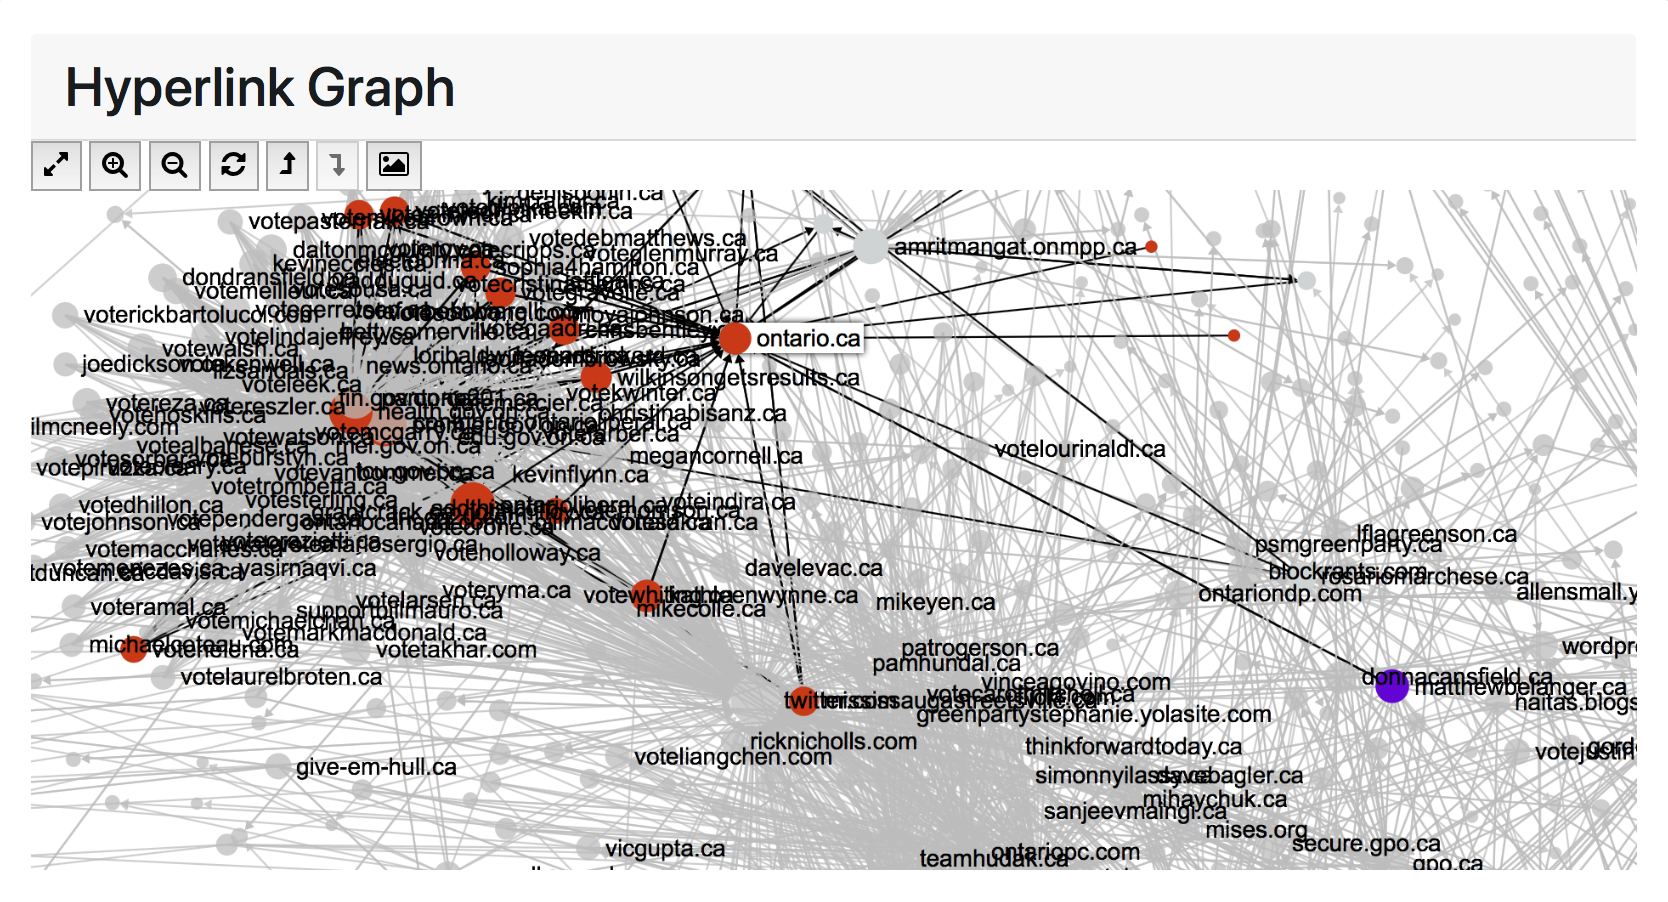
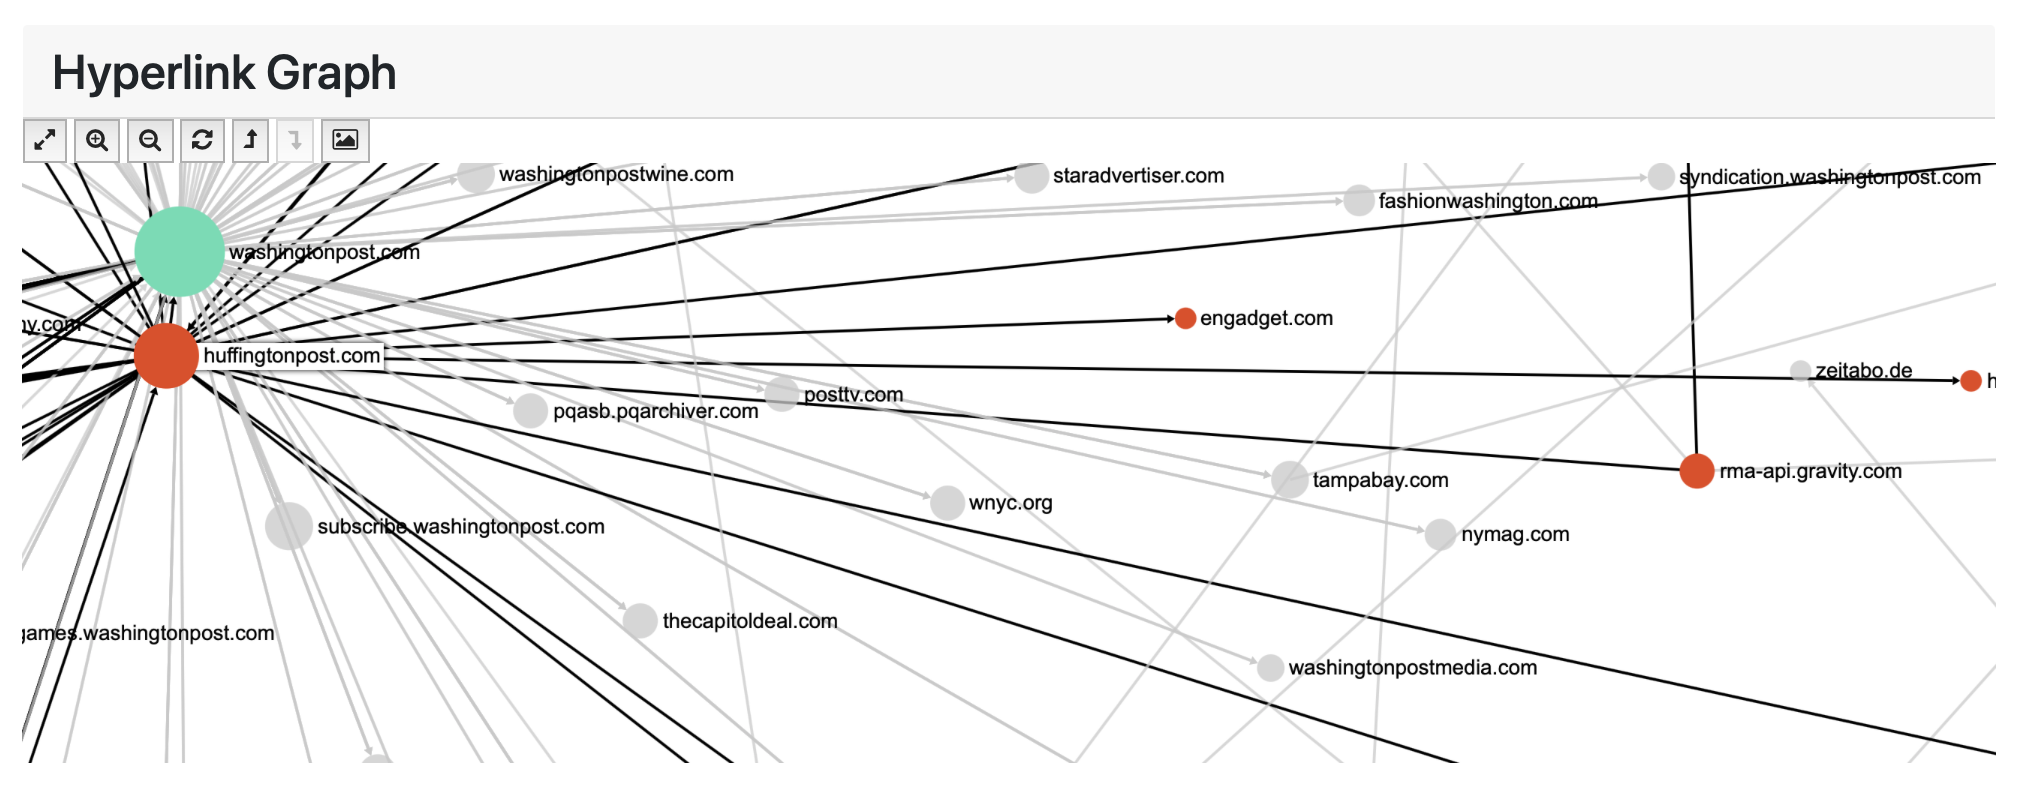
update cloud page links and edited graphpass example image

diff --git a/content/cloud/index.md b/content/cloud/index.md
@@ -12,7 +12,7 @@ Imagine a world where you could access and analyze a web archives file in as few
 
 The Archives Unleashed Cloud is an open-source cloud-based analysis tool that helps researchers and scholars conduct web archive analysis. It supports the priorities of accessibility and usability of web archives by providing users with a web-based front end to access the [Archives Unleashed Toolkit](/aut). It has been primarily developed by our project co-investigator and developer, [Nick Ruest](http://ruebot.net/).
 
-You can use the Cloud (for **free**) at <http://cloud.archivesunleashed.org>.
+You can use the Cloud (for **free**) at [http://cloud.archivesunleashed.org](http://cloud.archivesunleashed.org).
 
 {{< warning title="Closing the Cloud" >}}The Cloud will be shutting down on 30 June 2021 and migrating to Archive-It. Learn more about the transition [here](https://cloud.archivesunleashed.org/archiveit){{< /warning >}}
 
@@ -35,7 +35,7 @@ Let's take a tour of how the Cloud works. Below you will find a video tour of th
 
 [![](http://img.youtube.com/vi/BHP51tUhBFs/0.jpg)](http://www.youtube.com/watch?v=BHP51tUhBFs "Archives Unleashed Cloud Tour")
 
-Once a user signs up to [cloud.archivesunleashed.org](http://cloud.archivesunleashed.org/), they enter their Archive-It credentials, which are salted and encrypted. Those credentials are then used to sync their Archive-It collections with the Cloud using Archive-It's [WASAPI](https://github.com/WASAPI-Community/data-transfer-apis) endpoint. This is done as a background job, and once it is complete, it emails the user to let them know that their Archive-It collections are synced and available for further analysis. 
+Once a user signs up to [http://cloud.archivesunleashed.org](http://cloud.archivesunleashed.org), they enter their Archive-It credentials, which are salted and encrypted. Those credentials are then used to sync their Archive-It collections with the Cloud using Archive-It's [WASAPI](https://github.com/WASAPI-Community/data-transfer-apis) endpoint. This is done as a background job, and once it is complete, it emails the user to let them know that their Archive-It collections are synced and available for further analysis. 
 
 The main collections screen provides some basic information about each collection: title, if the collection has been analyzed in the Cloud yet, if it is publicly available (in Archive-It), the number of ARC/WARCs in the collection, and the size of the collection. You can see this below!
 
@@ -75,7 +75,7 @@ A few cautionary notes on "scale up" and "scale down" are in order. With website
 
 > A **logarithm** is a mathematical expression used to deal with non-normal distributed data (like networks). It is created by giving a base number an exponent, which is then multiplied by itself, to create factor increments, rather than equal amount increments, between data points. This is important as it will allow for data points to be more evenly distributed with minimal influence on data accuracy and integrity.
 
-You can further interact with the hyperlink diagram by hovering over any node to highlight its immediate connections to other nodes. The arrow on each line indicates the direction of connection, for instance, in the image below, we see an arrow connecting two nodes and reveals that `ontario.ca` has a link to the `atlantic.ctvnews.ca` domain.
+You can further interact with the hyperlink diagram by hovering over any node to highlight its immediate connections to other nodes. The arrow on each line indicates the direction of connection, for instance, in the image below, we see an arrow connecting two nodes and reveals that `huffingtonpost.com` has a link to the `engadget.com` domain.
 
 ![Full graph](/images/AUK-graph-zoomin.png)
 
